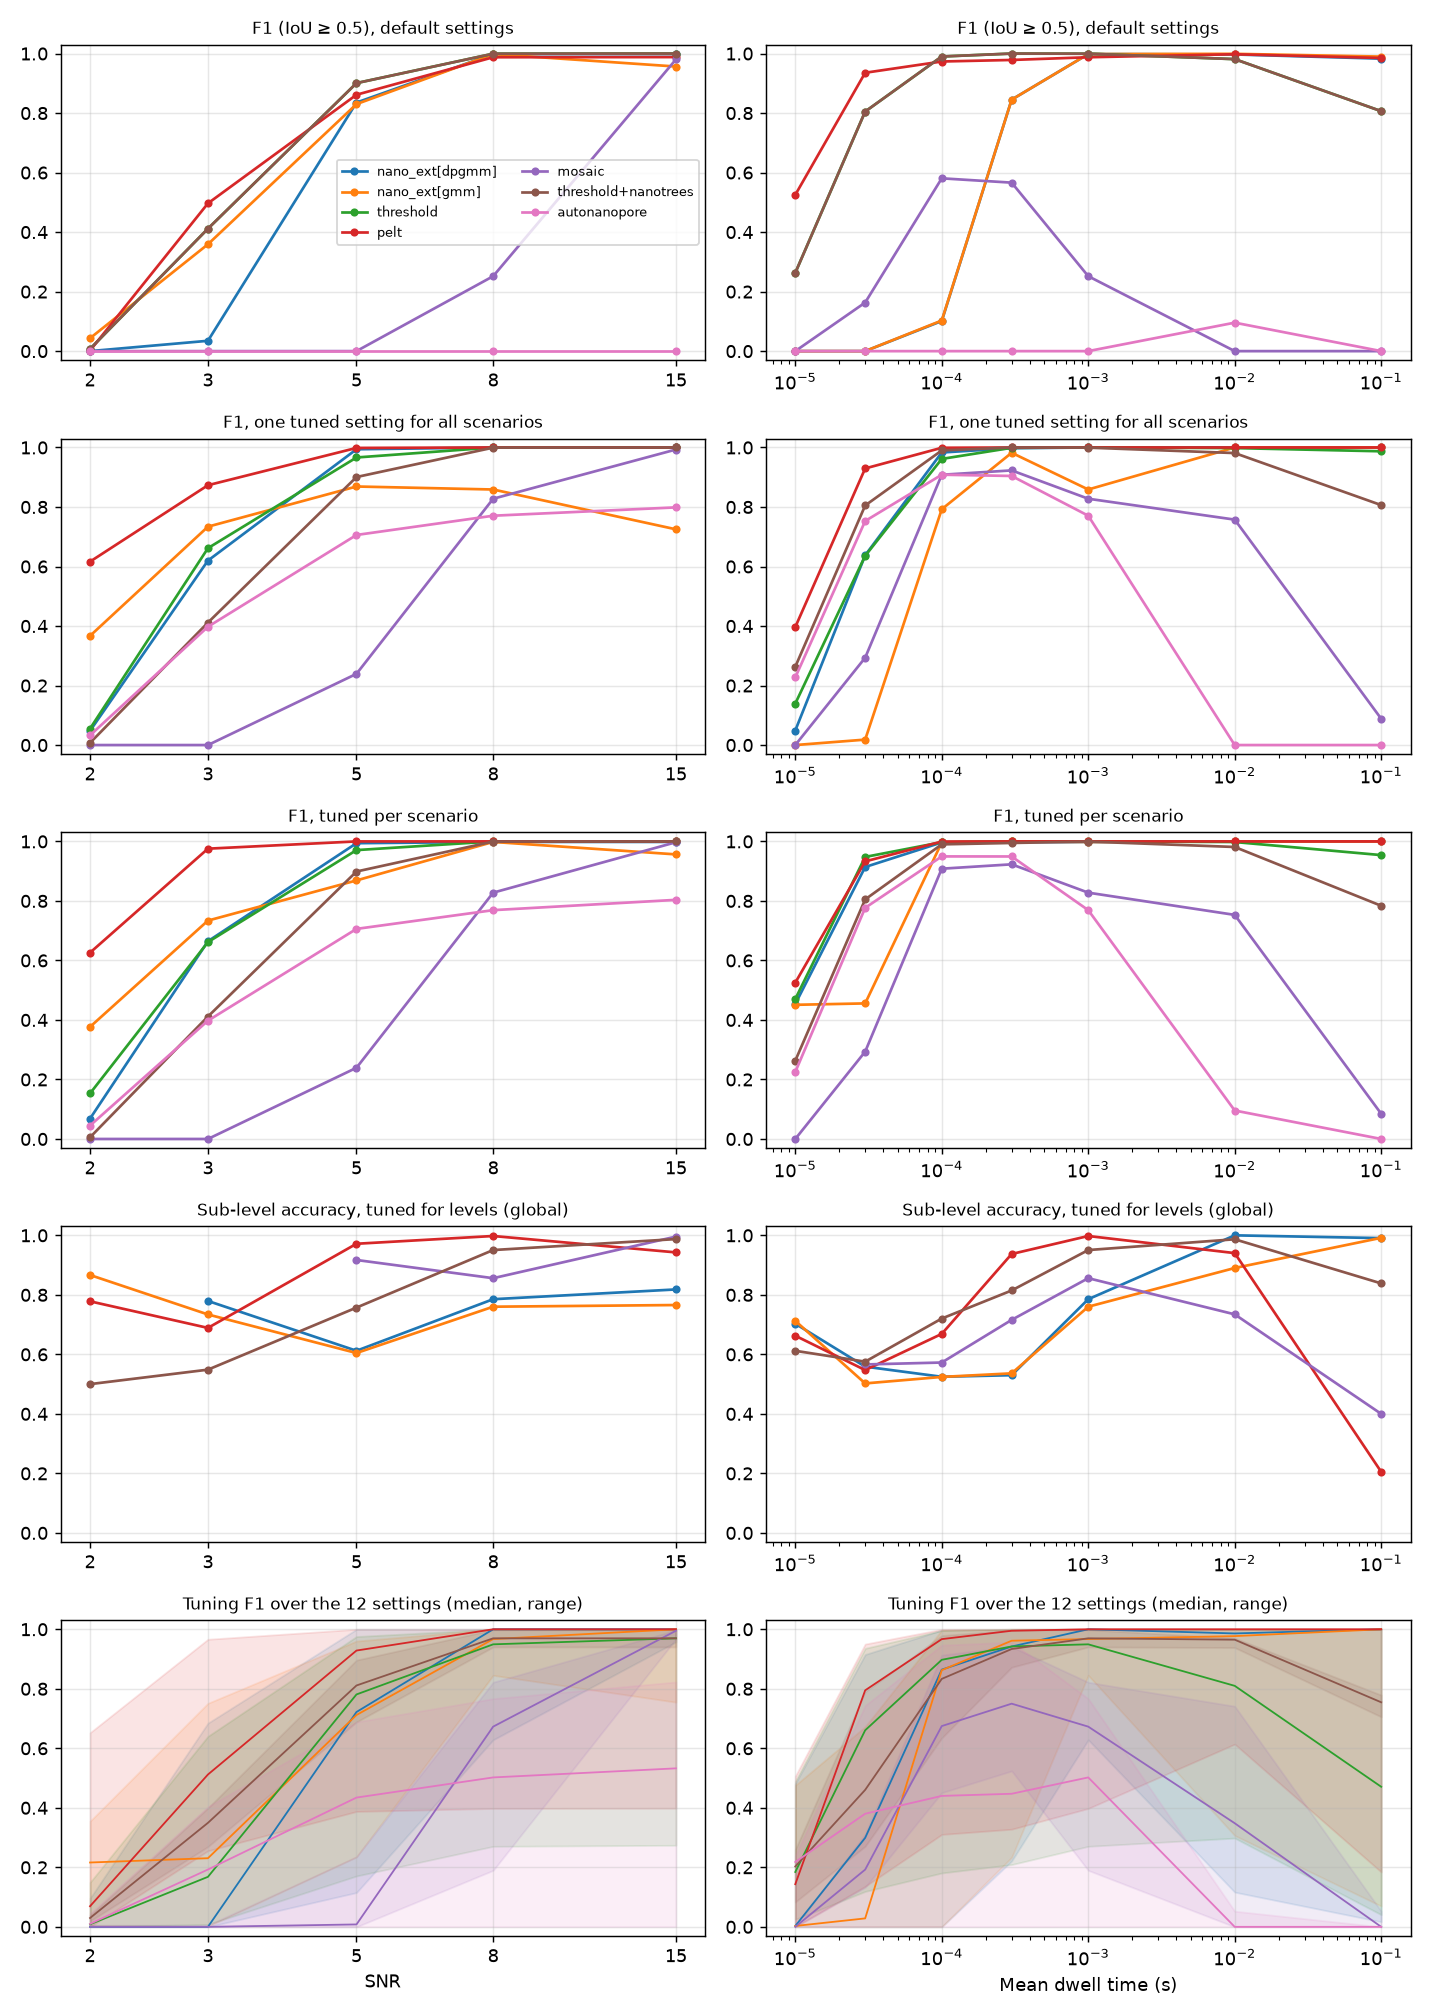
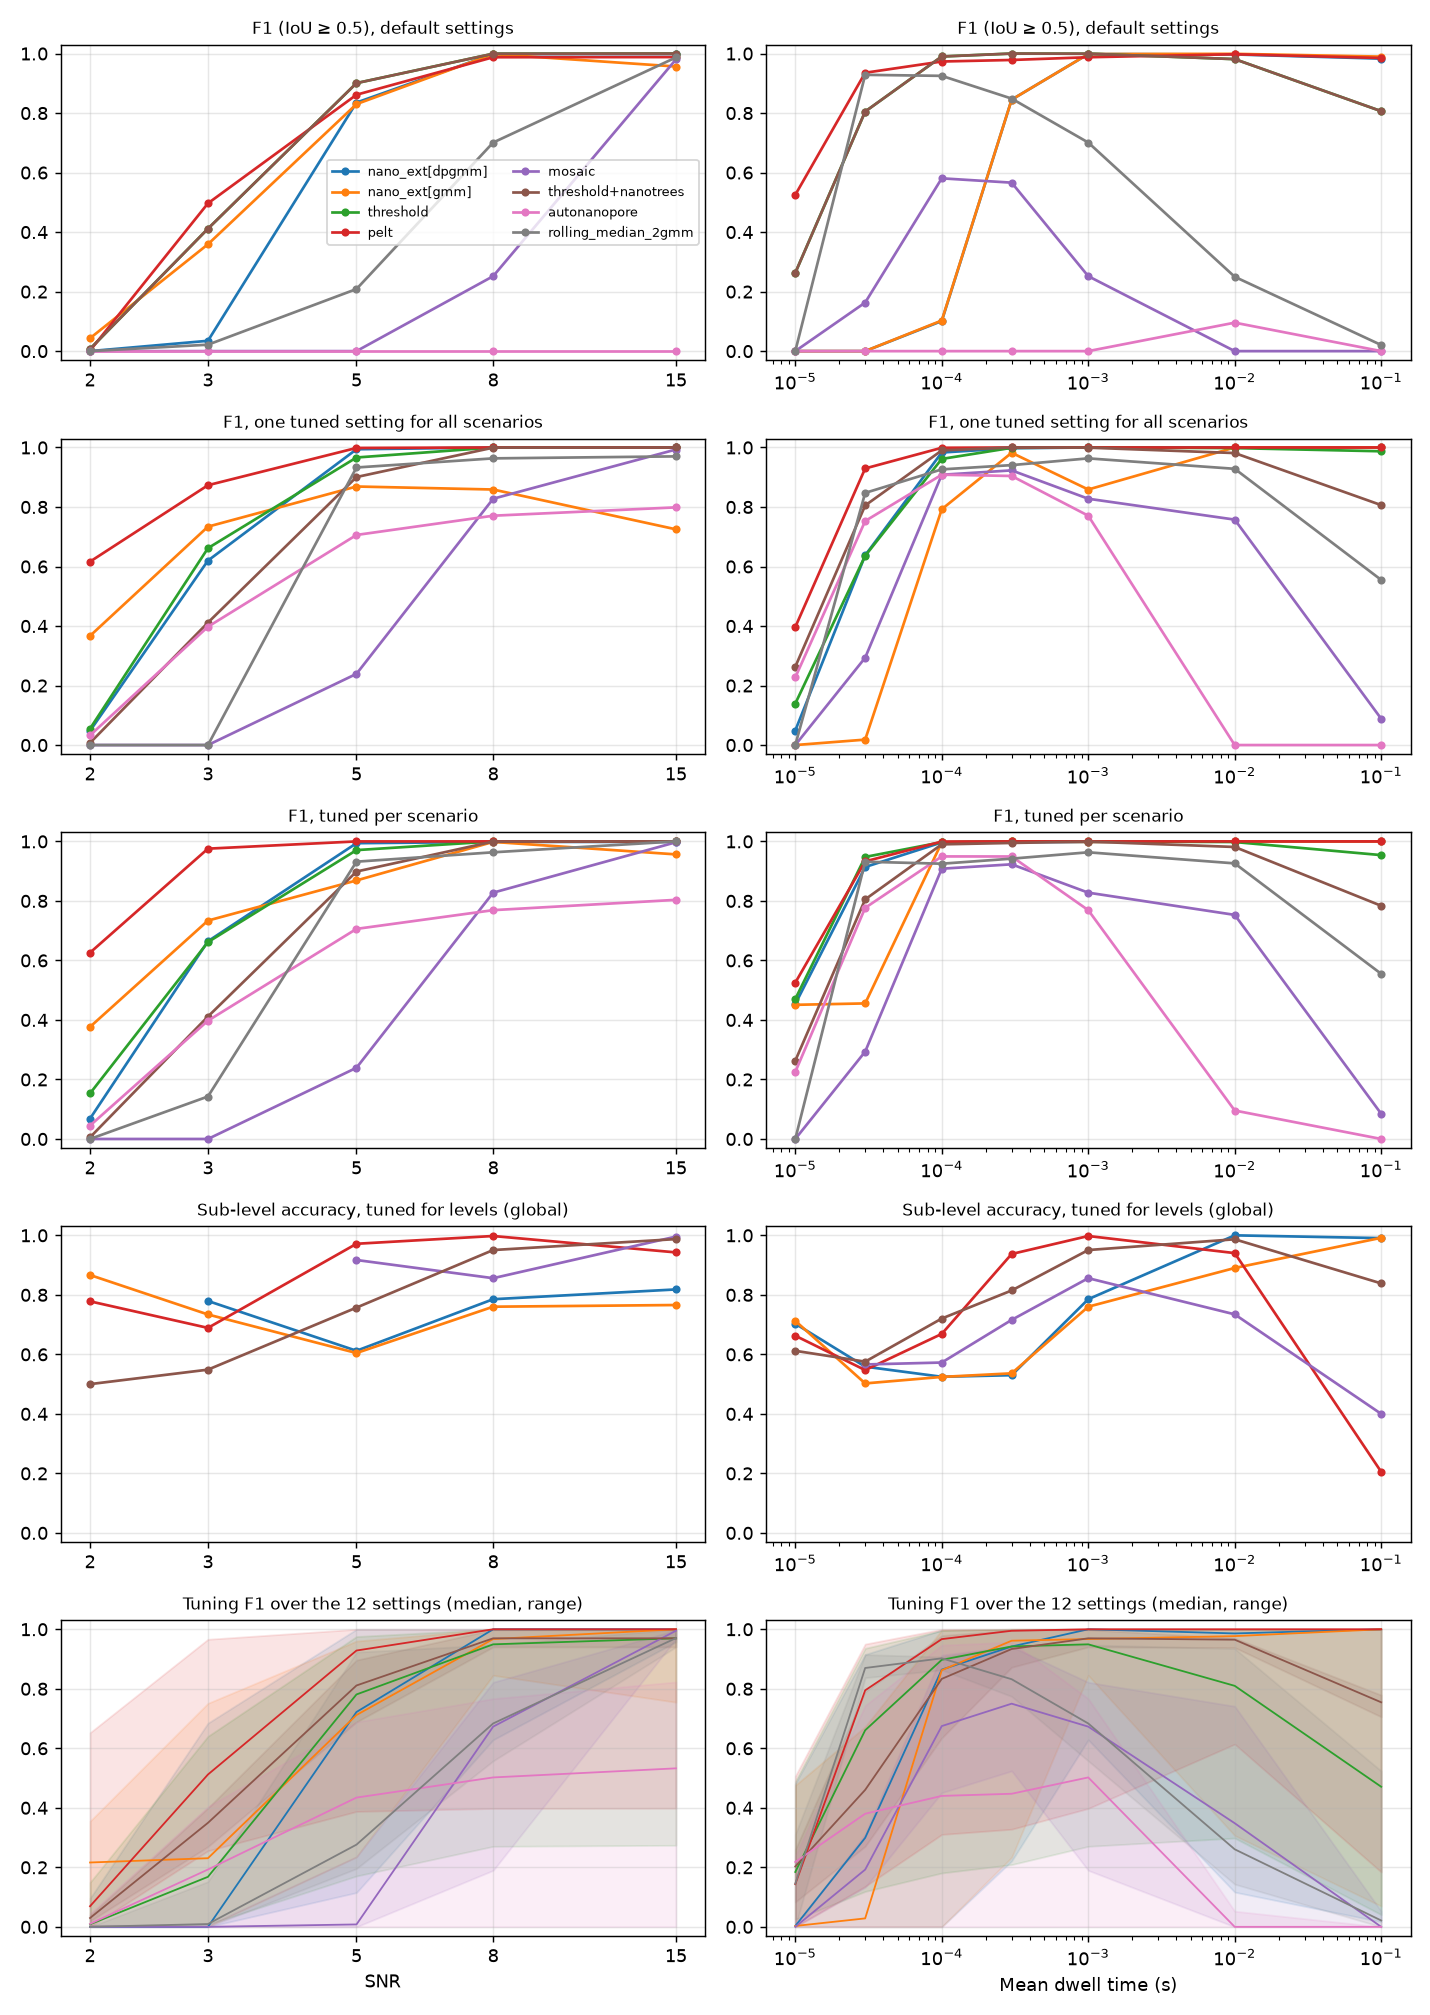
benchmarks: phase-2 results for rolling_median_2gmm
Same 12-setting budget and test seeds as the other methods; the other
methods' selections and results are unchanged. README section with the
method, its assumptions and results.

Claude-Session: https://claude.ai/code/session_01KACYqHknzyvYRv7x9V7ydn

Changed region(s): [[0.2154, 0.0615, 0.3692, 0.1231], [0.3692, 0.0923, 0.4923, 0.1231]]

diff --git a/benchmarks/README.md b/benchmarks/README.md
@@ -31,6 +31,7 @@ python benchmarks/run_realdata.py --workers 2 # agreement between methods on pub
 | `run_phase1.py` | runs the phase-1 grid (default settings), writes `results/phase1_*` |
 | `run_phase2.py` | external tools and equal-budget tuning, writes `results/phase2_*` |
 | `run_phase3.py` | event rate, filter cutoff, drift, hum and sub-level count axes, writes `results/phase3_*` |
+| `dpgmm_ablation.py` | DPGMM ablation (one ingredient removed at a time), writes `results/dpgmm_ablation_*` |
 | `run_realdata.py` | methods on public recordings without ground truth, writes `results/realdata_*` |
 | `external/` | `setup.sh` (pinned installs of the external tools into `_external/`, untracked) and the worker scripts that run MOSAIC and Nano Trees in their own environments; `fetch_poriscope_data.py` (download and SHA256 check of the Poriscope sample data) |
 | `short_event_limit.py` | shortest detectable event behind a 10 kHz filter vs Nano_ext's minimum event duration, writes `results/short_event_limit*.csv` |
@@ -158,7 +159,7 @@ That recording is favourable: every level lasts ≥ 1 ms, the blockades are deep
 | `threshold+nanotrees` | Events from `threshold` (default k = 5); sub-levels fitted inside each event (± padding) by the NanoTrees event fitter of Poriscope (commit `9d2b9e8`, MIT). | Python ≥ 3.12.10 environment. The plugin is called as in Poriscope's own unit tests, without its GUI and event loader. Its default *Smallest Significant Sublevel* (600 pA) is far above the 36–60 pA blockades here, so by default it reports one level per event. |
 | `autonanopore` | AutoNanopore (commit `a44cb80`), unmodified; `event_detection` is called on an ABF copy of the recording. | The repository has no licence file, so it is fetched, not copied. Its command-line entry point never calls the detection. It keeps the largest excursion of each 30 ms window and accepts windows whose amplitude is an outlier among all windows, so it assumes most windows hold no event. With ~1.5 events per window here it finds no outliers and fails; this is counted as zero detections. On a sparse check recording (2 events/s) it reaches F1 0.64 with defaults. |
 
-CBED (cluster-based event detection, 2026 preprint) is not included yet. The preprint states that its machine-learning workflow is on GitHub, but the repository could not be identified from the environment used here (the preprint's full text was not reachable). Once located, the plan is to check whether that code runs event detection on its own and, if so, add it as a method on the synthetic recordings.
+| `rolling_median_2gmm` | Rolling-median baseline, then a two-component Gaussian mixture fitted to the histogram of the residual; the event threshold follows from the two clusters. Re-implementation based on the description of cluster-based event detection in Wei et al. 2026 (bioRxiv, doi 10.64898/2026.05.07.723187); not the original authors' code. | Added after the other methods; details and results in [Rolling-median baseline + two-component GMM threshold](#rolling-median-baseline--two-component-gmm-threshold). It also serves as the fixed two-component GMM baseline. |
 
 ### Tuning protocol
 
@@ -370,6 +371,45 @@ Observations:
 - At SNR 5 even 1 ms events are partly missed. There the 5σ open-pore threshold is the limit, not the minimum duration.
 - Depth is the mean over the detected event, so short events read shallower: 0.90 of the true depth at 100 µs and 0.82 at 50 µs (SNR 10, k = 0.5). This is because the rising and falling edges are included.
 - Real recordings have non-Gaussian noise (spikes, bursts), so the false-event rate on them can be higher than here.
+
+## Rolling-median baseline + two-component GMM threshold
+
+`rolling_median_2gmm` (in `adapters.py`) re-implements the description of cluster-based event detection in Wei et al. 2026 (bioRxiv, doi 10.64898/2026.05.07.723187). It is not the original authors' code. It also serves as a threshold from a mixture with the number of components fixed at two.
+
+**Steps.**
+
+1. Baseline: the median of the current over a centred window (`window_sec`, default 1 s; at the ends, the samples that are available).
+2. Residual: current minus baseline.
+3. A two-component Gaussian mixture is fitted by EM to the residual histogram (512 bins): a baseline cluster and an event cluster.
+4. Samples whose posterior probability of the event cluster is at least `posterior` (default 0.5, the Bayes decision boundary) are event samples.
+5. Post-processing: events closer than `merge_gap_sec` (default 20 µs) are merged.
+
+**Assumptions.** The description leaves several details open, so the following are choices made here:
+- the window length and the number of bins;
+- the initialisation: baseline cluster at the residual median with its MAD width, event cluster at the 1st percentile;
+- the posterior rule;
+- the post-processing values.
+
+If the event cluster's mean is not more than one baseline SD below the baseline mean, no events are reported. The method does no sub-level analysis.
+
+**Tuning.** Same budget and protocol as phase 2: 12 settings, `window_sec` ∈ {0.2, 1, 5} s × `posterior` ∈ {0.5, 0.99} × `merge_gap_sec` ∈ {20 µs, 1 ms}. The global setting chosen for F1 was 5 s, 0.99 and 1 ms. Adding the method does not change any other method's selected setting or result.
+
+**Phase-2 results (mean F1 over the 12 scenarios, 5 test seeds).**
+
+| setting | `rolling_median_2gmm` | nano_ext[dpgmm] | nano_ext[gmm] | threshold | PELT |
+|---|---|---|---|---|---|
+| default | 0.47 | 0.57 | 0.59 | 0.76 | 0.81 |
+| one tuned setting | 0.67 | 0.78 | 0.68 | 0.78 | 0.90 |
+| tuned per scenario | 0.69 | 0.84 | 0.82 | 0.85 | 0.92 |
+
+The spread of the tuning F1 over the 12 settings is 0.30, against 0.62 for nano_ext[dpgmm] and 0.64 for PELT.
+
+**Observations.**
+
+- **Short events:** this is where it is strongest. With defaults it gets F1 0.93 at 30 µs and 100 µs, close to PELT (0.94, 0.97). Nano_ext's defaults drop these events because of their minimum duration.
+- **Long events:** it fails with defaults (F1 0.25 at 10 ms, 0.02 at 100 ms). Recall stays high (0.97, 0.79), but each event is split into many pieces, because there is no hysteresis and the 20 µs merge gap is short. With the tuned setting (1 ms merge gap, 5 s window) it reaches 0.93 at 10 ms and 0.55 at 100 ms.
+- **Low SNR:** at SNR ≤ 3 it finds no usable event cluster or calls noise excursions events (F1 ≤ 0.14 even when tuned per scenario). At SNR 5 the defaults over-call (precision 0.12); the tuned posterior of 0.99 fixes this (0.93).
+- **Runtime:** about 6 s per 10–30 s recording, dominated by the rolling median. For 100 ms events (30 s recordings, 5 s window) it is 47–70 s.
 
 ## Limitations and next steps
 
